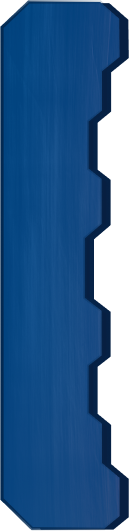
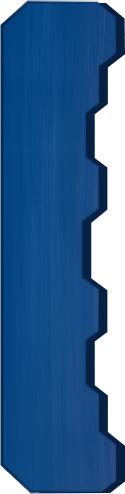
fixing doors p1

diff --git a/src/components/particular-event/ParticularEvent.scss b/src/components/particular-event/ParticularEvent.scss
@@ -7,6 +7,7 @@
     font-family: Barlow;
     src: url("../../assets/fonts/Barlow/Barlow-Regular.ttf");
 }
+
 @font-face {
     font-family: Barlow;
     src: url("../../assets/fonts/Barlow/Barlow-Regular.ttf");
@@ -20,66 +21,71 @@
 .event {
     background: radial-gradient(100% 100% at 50% 0%, rgba(7, 30, 64, 0.68) 0%, rgba(13, 57, 121, 0.595) 100%);
     border: 0.01px solid #2162A7;
-    // height: 80% !important;
     display: flex;
     justify-content: space-between;
-
+    // background-image: url("../../assets//images/Events/background.svg");
+    // background-repeat: no-repeat;
+    // width: 100%;
 
     @media only screen and (max-width: 1465px) and (min-width: 1122px) {
 
-        .left-event-details{
-            .prize-sec p{
+        .left-event-details {
+            .prize-sec p {
                 font-size: 20px !important;
             }
-            .team-sec p{
+
+            .team-sec p {
                 font-size: 20px !important;
             }
         }
 
-        .right-event-container{
-            p{
+        .right-event-container {
+            p {
                 font-size: 18px !important;
             }
         }
     }
 
     @media only screen and (max-width: 1121px) and (min-width: 1021px) {
-        
-        .left-event-details{
-            .prize-sec p{
+
+        .left-event-details {
+            .prize-sec p {
                 font-size: 18px !important;
             }
-            .team-sec p{
+
+            .team-sec p {
                 font-size: 18px !important;
             }
-            .rules{
-                a{
+
+            .rules {
+                a {
                     font-size: 14px !important;
                 }
             }
         }
 
-        .right-event-container{
-            p{
+        .right-event-container {
+            p {
                 font-size: 14px !important;
             }
         }
 
-        
+
     }
 
-    @media only screen and (width: 1366px){
-        .left-event-details{
-            .prize-sec p{
+    @media only screen and (width: 1366px) {
+        .left-event-details {
+            .prize-sec p {
                 font-size: 18px !important;
             }
-            .team-sec p{
+
+            .team-sec p {
                 font-size: 18px !important;
             }
         }
 
-        .right-event-container{
-            p{
+        .right-event-container {
+            p {
                 font-size: 16px !important;
             }
         }
@@ -87,37 +93,36 @@
 
 
     .left-door-container {
-        width: 10%;
         display: flex;
-        justify-content: flex-end;
-
+        justify-content: flex-start;
         .left-door {
             height: 109%;
-            top: -4%;
+            left: -10%;
+            bottom: 4%;
             position: relative;
         }
     }
 
     .right-door-container {
-        width: 10%;
         display: flex;
-        justify-content: flex-start;
+        justify-content: flex-end;
 
         .right-door {
             height: 109%;
-            top: -4%;
-            left: 10%;
             position: relative;
+            left: 10%;
+            bottom: 4%;
             transform: rotateZ(180deg);
         }
     }
+
     .details {
-        width: 80%;
+        width: 100%;
         display: flex;
-        flex-wrap: wrap;
         flex-direction: column;
         align-items: center;
         justify-content: space-evenly;
+        // flex-wrap: wrap;
 
         .event-title {
 
@@ -156,7 +161,7 @@
                 margin-right: 8%;
             }
 
-            .to-dot{
+            .to-dot {
                 margin-left: 8%;
                 margin-right: 8%;
             }
@@ -256,11 +261,12 @@
                 }
 
                 .rules {
-                    a{
+                    a {
                         text-decoration: none;
-                        color:#1CA0FF;
+                        color: #1CA0FF;
                         font-family: Barlow;
                     }
+
                     display: flex;
                     // justify-content: space-between;
                     // border: 1px solid yellow;

diff --git a/src/containers/Events/Events.scss b/src/containers/Events/Events.scss
@@ -1,8 +1,8 @@
 .event-outer {
     box-sizing: border-box;
-    padding: 4% 0;
+    padding: 10% 0;
     user-select: none;
-    row-gap: 4%;
+    row-gap: 6%;
     height: 100vh;
     display: flex;
     flex-direction: column;
